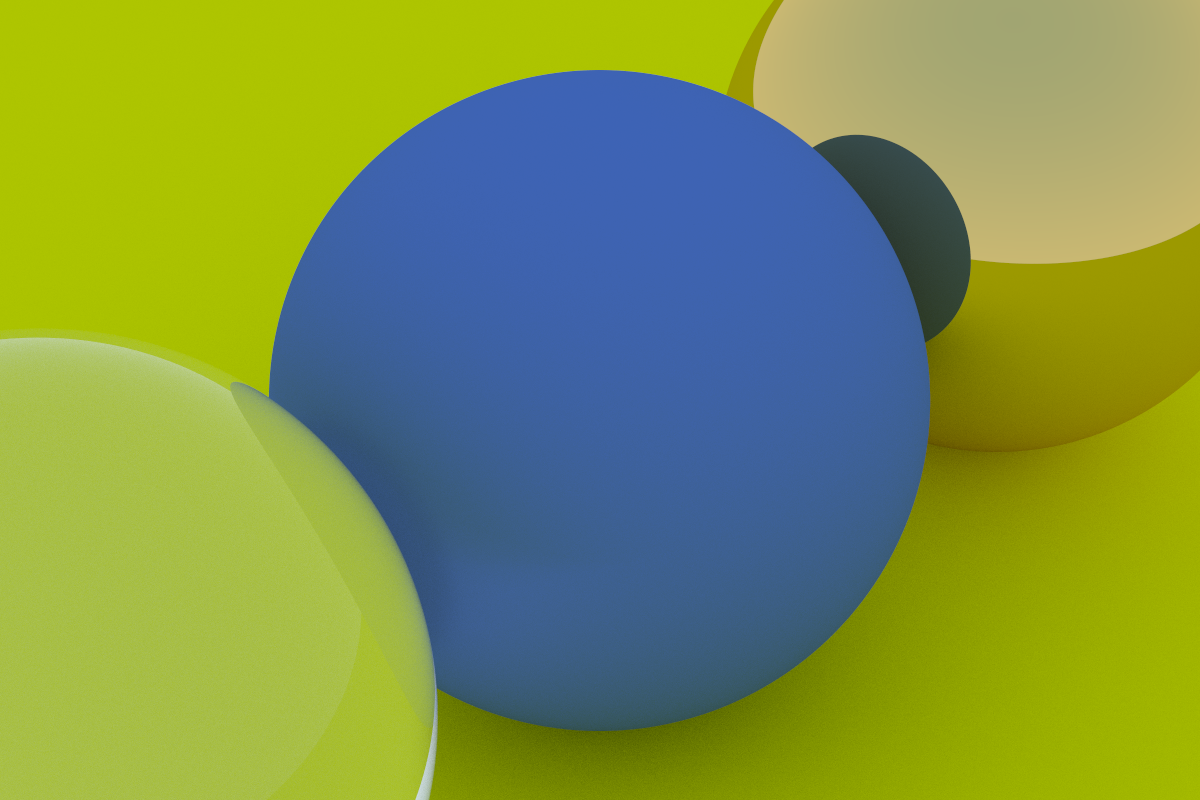
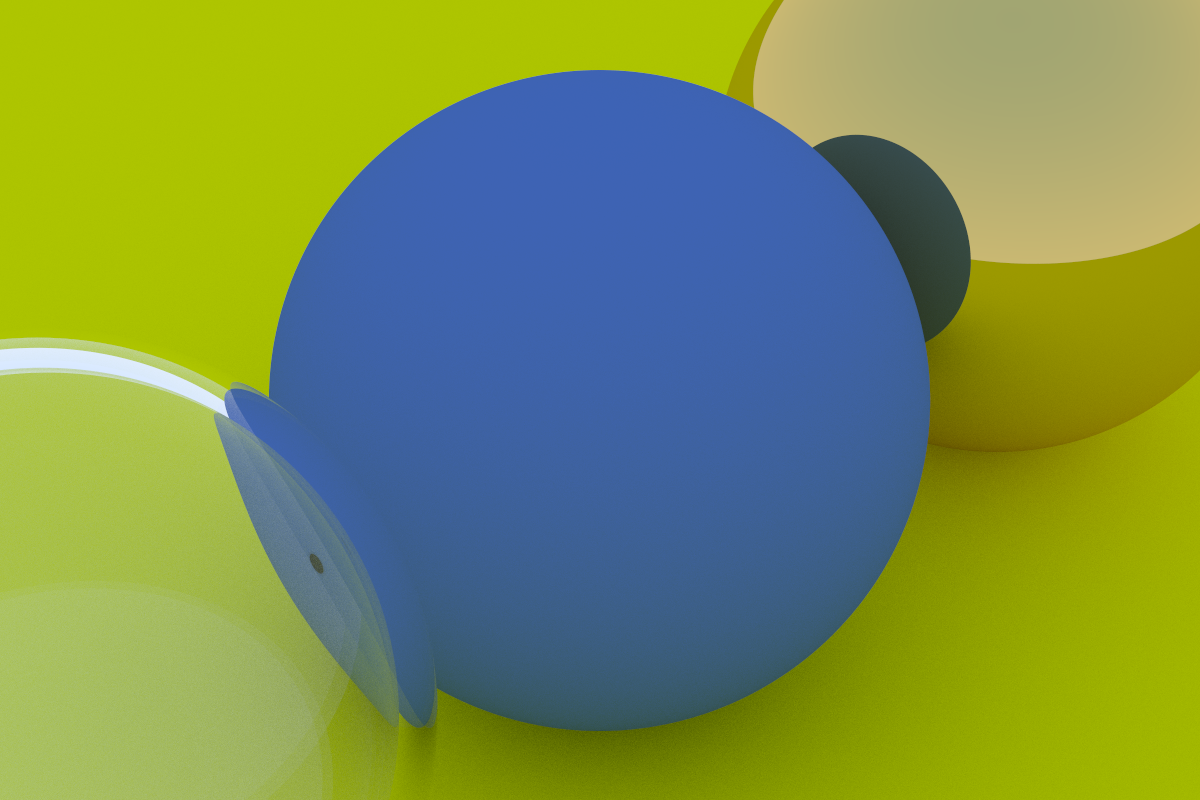
Fix bug in sphere bounding box that messed up figure 19

Changed region(s): [[0.0, 0.4062, 0.4008, 1.0]]

diff --git a/src/sphere.rs b/src/sphere.rs
@@ -58,9 +58,10 @@ impl Hittable for Sphere {
 	}
 
 	fn bounding_box(&self, _time0: f64, _time1: f64) -> Option<Aabb> {
+		let radius = self.radius.abs();
 		Some(Aabb::new(
-			self.center - Vec3::new(self.radius, self.radius, self.radius),
-			self.center + Vec3::new(self.radius, self.radius, self.radius),
+			self.center - Vec3::new(radius, radius, radius),
+			self.center + Vec3::new(radius, radius, radius),
 		))
 	}
 }
